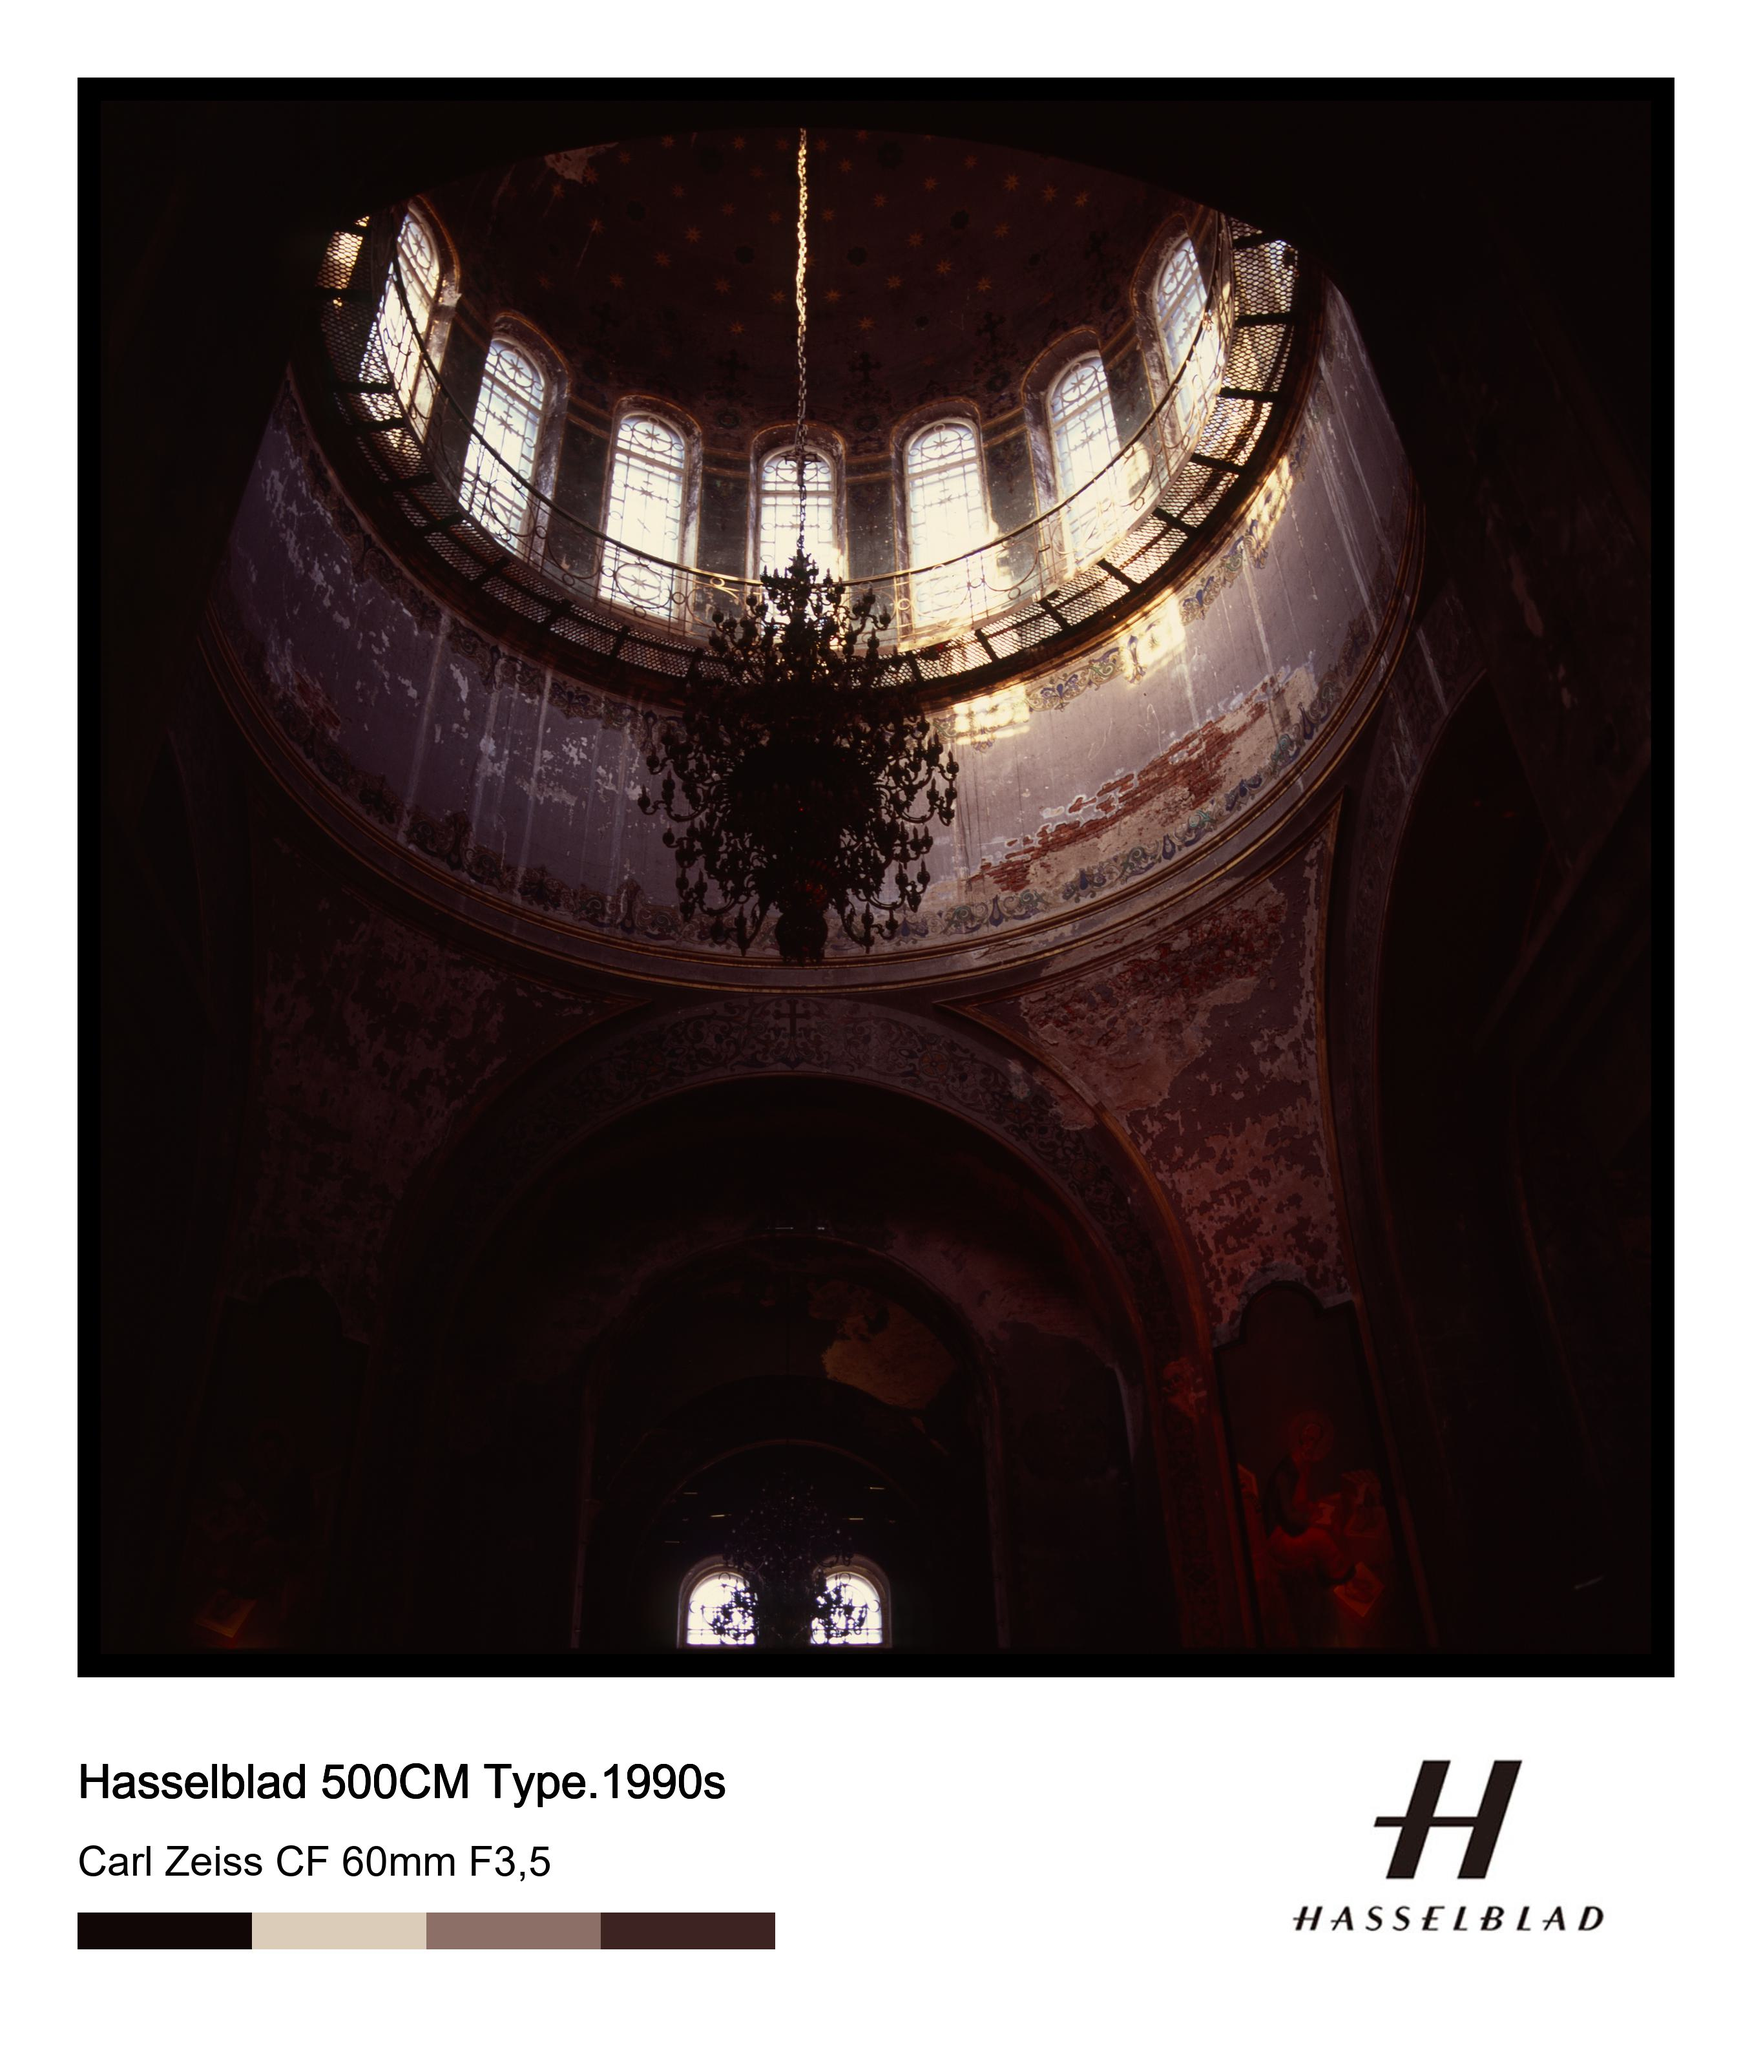
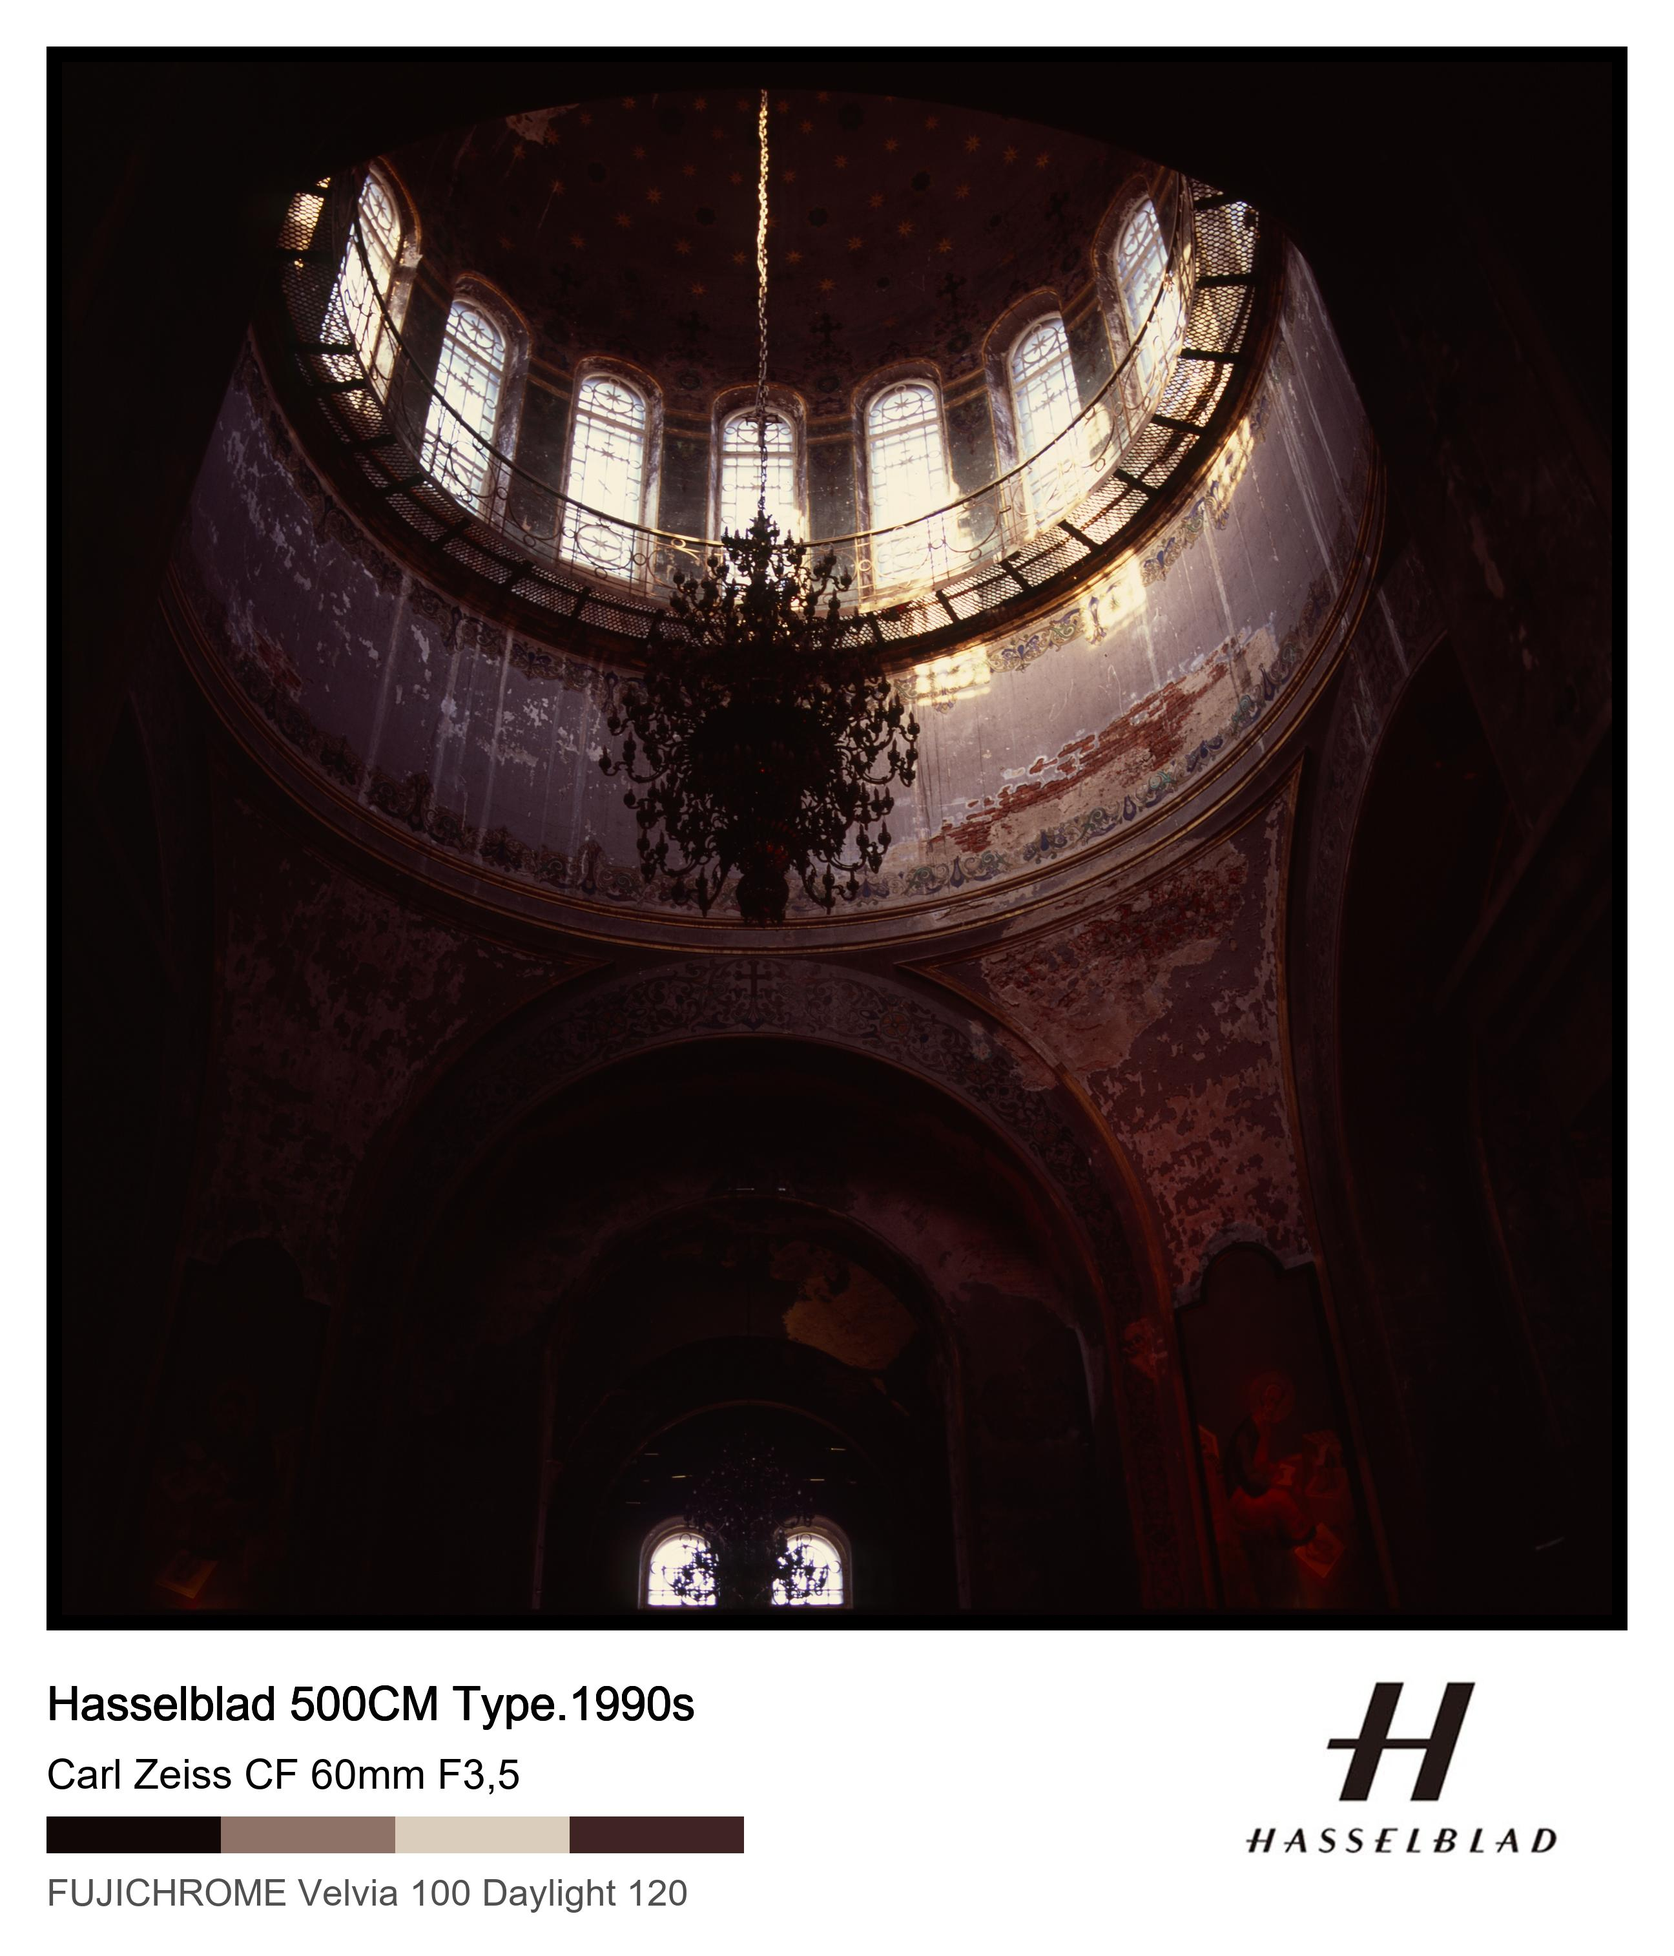
new element added 2

diff --git a/add_bd.py b/add_bd.py
@@ -1,4 +1,6 @@
 from PIL import Image,ImageDraw,ImageFont,ImageOps
+from PIL.ExifTags import TAGS
+import piexif
 import  os,glob
 from color_extract import  extract_main_colors
 import numpy as np
@@ -7,11 +9,21 @@ src='./imgtoprocess'
 tgt='./imgdone'
 tgt_size=2400
 ratio=0.9
-border_size=int(0.015*tgt_size)
+border_size=int(0.01*tgt_size)
 border_color='black'
-exterior=int(0.05*tgt_size)
+exterior=int(0.03*tgt_size)
 infor_area=int(0.15*tgt_size)
 font_size=int(tgt_size*0.03)
+
+
+
+# suppli_info="Kodak Vision3 5219 500T 120"
+# suppli_info="Kodak Vision3 5207 250T 120"
+# suppli_info="Kodak EktarChrome 5294 100D 135"
+suppli_info="FUJICHROME Velvia 100 Daylight 120"
+# suppli_info="FUJICHROME Provia 100f Daylight 120"
+# suppli_info=None
+
 
 text_dict={
     'hassel_CF60':["Hasselblad 500CM Type.1990s\n\nCarl Zeiss CF 60mm F3,5",'logos/hassel.jpg'],
@@ -21,15 +33,28 @@ text_dict={
     'olym_2848': ["Olympus OM-30\n\nZuiko S Auto-Zoom 28-48mm F4", 'logos/Olympus.jpg'],
     'mamiya_six': ["Mamiya-Six Type.K-1953\n\nOlympus D.Zuiko F.C. 75mm F3.5 Sekorsha", 'logos/mamiya.jpg'],
     'minolta': ["Minolta Hi-Matic E \n\nRokkor-QF 40mm F1,7", 'logos/Minolta.jpg'],
+    'auto_detect':['',''],
 
 }
-# text = "Olympus OM-30 Type.1985\n\nOM-System Zuiko.S 50mm F1,4"
-# text = "Minolta Hi-Matic E Type.1982\n\nRokkor-QF 40mm F1,7"
+logo_dict={
+'hassel_CF60':'logos/hassel.jpg',
+    'hassel_CF150': 'logos/hassel.jpg',
+    'olym_50':'logos/Olympus.jpg',
+    'olym_135': 'logos/Olympus.jpg',
+    'olym_2848': 'logos/Olympus.jpg',
+    'mamiya_six': 'logos/mamiya.jpg',
+    'minolta':'logos/Minolta.jpg',
+    'SONY':'logos/Sony-Alpha-Logo.png',
+    'Panasonic': 'logos/Panasonic-Lumix-Logo.jpg'
 
-# logo_path='logos/Olympus.jpg'
-# logo_path='logos/Minolta.jpg'
-# logo_path='logos/mamiya.jpg'
-# logo_path='logos/mamiya2.jpg'
+}
+
+def initializing_directories():
+    for dir_name in list(text_dict.keys()):
+        if not os.path.exists(os.path.join(src,dir_name)):
+            os.mkdir(os.path.join(src,dir_name))
+    if not os.path.exists(tgt):
+        os.mkdir(tgt)
 
 def rotate_image_90_no_crop(image_data,reverse=False):
     # 打开图像
@@ -55,9 +80,62 @@ def rotate_image_90_no_crop(image_data,reverse=False):
 
     return cropped_image
 
+
 def process_one_image(img_path,text,logo_file):
 
     img = Image.open(img_path).convert('RGB')
+    suppli_line=suppli_info
+    # if the image is auto-detected, the exif will be extracted
+    if 'auto_detect' in img_path and text=='':
+        # exif=img.info['exif']
+        exif_data = img.getexif()
+        camera_mk=None
+        camera_m=None
+        if exif_data:
+            for tag, value in exif_data.items():
+                tag_name = TAGS.get(tag, tag)
+                # print(f"{tag_name}: {value}")
+                if tag_name=="Make":
+                    camera_mk=value
+                elif tag_name=='Model':
+                    camera_m=value
+
+        if camera_mk and camera_m:
+            text = camera_mk + ' '+ camera_m+'\n\n'
+            logo_file=logo_dict[camera_mk]
+            try:
+                exif_dict = piexif.load(img.info['exif'])
+                # print(exif_dict['Exif'].keys())
+                # for element in dir(piexif.ExifIFD):
+                #     # 排除内置属性和方法
+                #     if not element.startswith('__'):
+                #         value = getattr(piexif.ExifIFD, element)
+                #         if value in exif_dict['Exif'].keys():
+                #             print(f"{element}: {value}")
+                #             # print(f"{element}: {value}: {exif_dict['Exif'][value]}")
+                focal_length = exif_dict['Exif'][piexif.ExifIFD.FocalLength]
+                # print(focal_length)
+                F_value=exif_dict['Exif'][piexif.ExifIFD.FNumber]
+                # print(F_value)
+                ISO_value=exif_dict['Exif'][piexif.ExifIFD.ISOSpeedRatings]
+                # print(str(exif_dict['Exif'][piexif.ExifIFD.LensModel]))
+                text=text+exif_dict['Exif'][piexif.ExifIFD.LensModel].decode('utf-8')
+                # camera_m=exif_data['Make']
+                suppli_line='Focal Length: '+str(int(focal_length[0]/focal_length[1]))+'mm    '+'Aperture: F'+str(F_value[0]/F_value[1]).replace('.',',')+'    '+'ISO/Din: '+str(ISO_value)
+
+
+
+                # print(text)
+                # print(logo_file)
+                # print(suppli_line)
+
+            except:
+                print(f"Exif detected broken for one image in the auto detect dictionary:{img_path}")
+
+
+        else:
+            print(f"No exif detected for one image in the auto detect dictionary:{img_path}")
+            return
     # print(img.height,img.width)
 
     # 计算要将原始图片粘贴到白色背景图上的位置,rotate or not
@@ -92,19 +170,19 @@ def process_one_image(img_path,text,logo_file):
     logo_img=logo_img.resize((int(logo_img.width*logo_height/logo_img.height),int(logo_height)))
     background.paste(logo_img,(int(tgt_size+2*border_size+exterior-logo_img.width*logo_height/logo_img.height),int(new_height+2*border_size+2*exterior)))
     draw = ImageDraw.Draw(background)
+
     # add text 1 the camera
     font = ImageFont.truetype("arial.ttf", font_size)
-    posi = (exterior, 2 * exterior + new_height + 2*border_size)
+    posi = (int(exterior*1.01), 2 * exterior + new_height + 2*border_size)
     text_1=text.split('\n\n')[0]
     draw.text(posi, text_1, fill=(0, 0, 0), font=font)
-    # mkae it bold
-    bold_offset = 1
+    bold_offset = 1 # make it bold
     for offset in [(0, 0), (bold_offset, 0), (0, bold_offset), (bold_offset, bold_offset)]:
         draw.text((posi[0] + offset[0], posi[1] + offset[1]), text_1, font=font, fill=(0, 0, 0))
 
-    # add text 1 the lens
+    # add text 2 the lens
     font = ImageFont.truetype("arial.ttf", int(font_size*0.9))
-    posi = (exterior, 2 * exterior + new_height + 2 * border_size+1.8*font_size)
+    posi = (int(exterior*1.01), 2 * exterior + new_height + 2 * border_size+1.6*font_size)
     text_2 = text.split('\n\n')[1]
     draw.text(posi, text_2, fill=(0, 0, 0), font=font)
     # text2 = "\nShot in Somewhere on the earth."
@@ -112,17 +190,20 @@ def process_one_image(img_path,text,logo_file):
     # add main_color
     main_c=extract_main_colors(img,num_colors=4)
     color_image = np.zeros((int(0.8* font_size), int(15*font_size), 3), dtype=int)
-
     block_width = color_image.shape[1] // len(main_c)
-
     for i, color in enumerate(main_c):
         color_image[:, i * block_width:(i + 1) * block_width] = color
     color_pad=Image.fromarray(color_image.astype('uint8'))
-    posi_mc=(exterior, int(2 * exterior + new_height + 2 * border_size+3.4*font_size))
+    posi_mc=(int(exterior*1.01), int(2 * exterior + new_height + 2 * border_size+3.0*font_size))
     background.paste(color_pad,posi_mc)
 
-    # rotate back and save
+    # add supplementary_line in the last line
+    if suppli_line:
+        font = ImageFont.truetype("arial.ttf", int(font_size * 0.8))
+        posi = (int(exterior*1.01), 2 * exterior + new_height + 2 * border_size + 4.2 * font_size)
+        draw.text(posi, suppli_line, fill=(80, 80, 80), font=font)
 
+    # rotate back and save
     if rota:
         background=rotate_image_90_no_crop(background,reverse=False)
     dir_p=os.path.split(os.path.split(img_path)[0])[1]
@@ -133,20 +214,24 @@ def process_one_image(img_path,text,logo_file):
 
 
 if __name__=='__main__':
-    if not os.path.exists(tgt):
-        os.mkdir(tgt)
+    initializing_directories()
+    # if not os.path.exists(tgt):
+    #     os.mkdir(tgt)
 
     # 加载原始图片
 
     dir_list=os.listdir(src)
     for dir_name in dir_list:
         if os.path.isdir(os.path.join(src,dir_name)) and dir_name in text_dict:
+            # if dir_name=='auto_detect':
+            #     pass
+            # else:
             text_line,logo_path=text_dict[dir_name]
             img_all = []
             for suf in ['png','jpeg','jpg','PNG','tif']:
                 img_all.extend(glob.glob(os.path.join(src,dir_name,"*."+suf)))
 
-            print(f'Images need to be processed: {img_all}')
+            print(f'Images need to be processed in {dir_name} : {img_all}')
             for indx in range(len(img_all)):
                 print("\rProcessing line {}/{}...".format(indx+1, len(img_all)), end='', flush=True)
                 process_res = process_one_image(img_all[indx],text=text_line,logo_file=logo_path)
